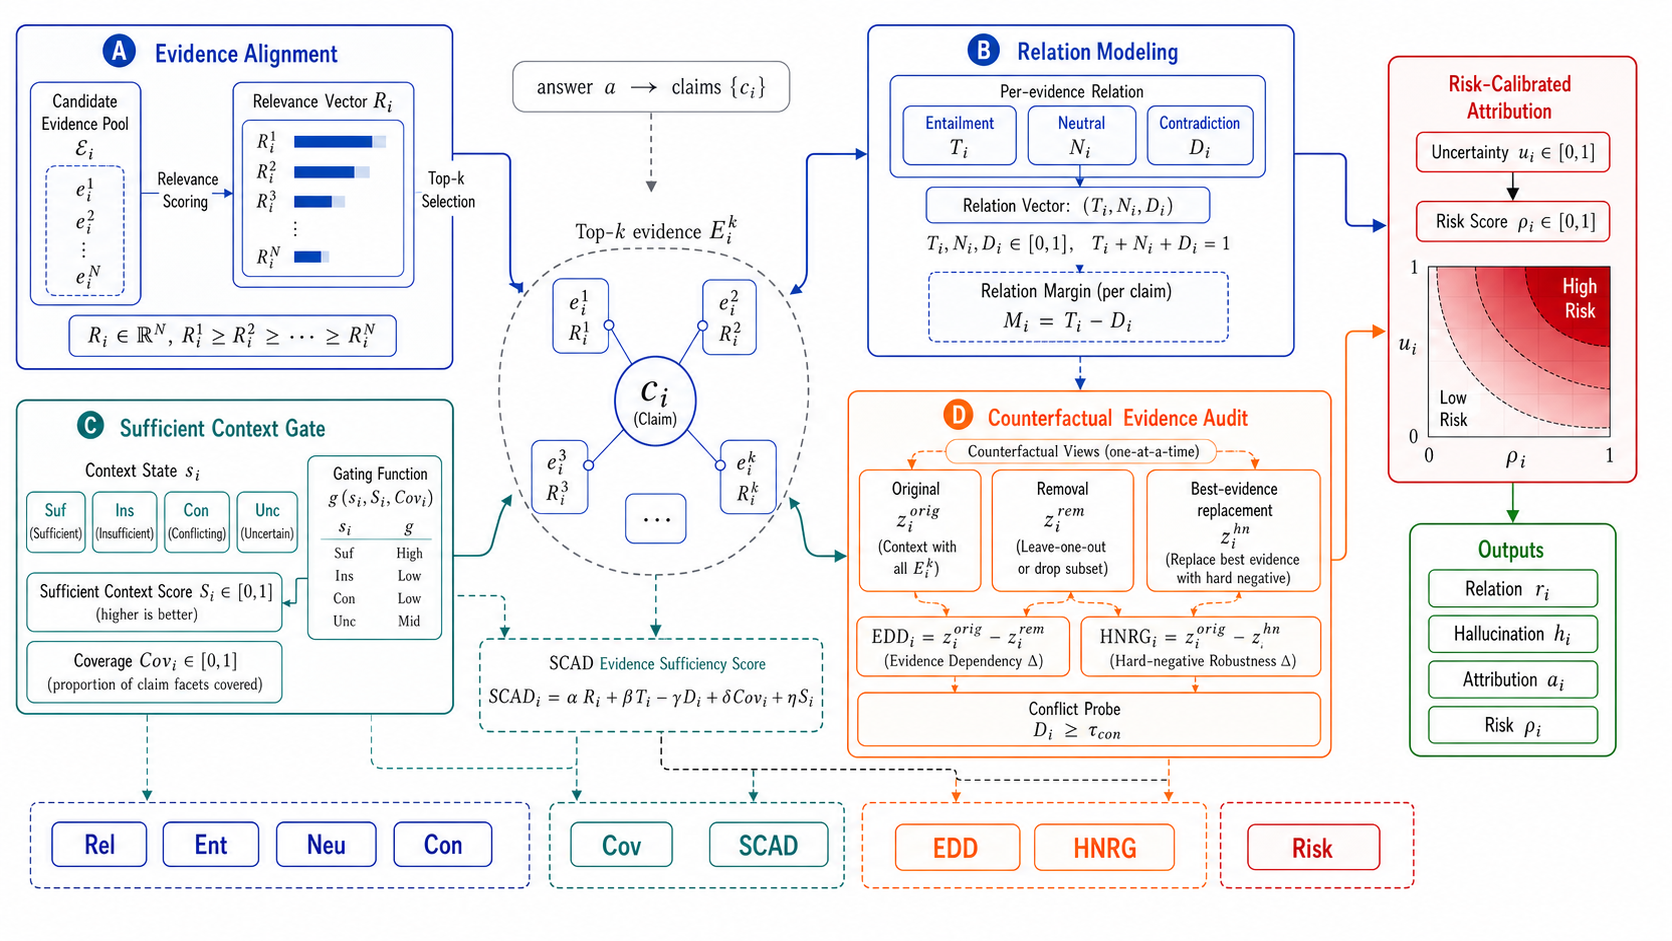
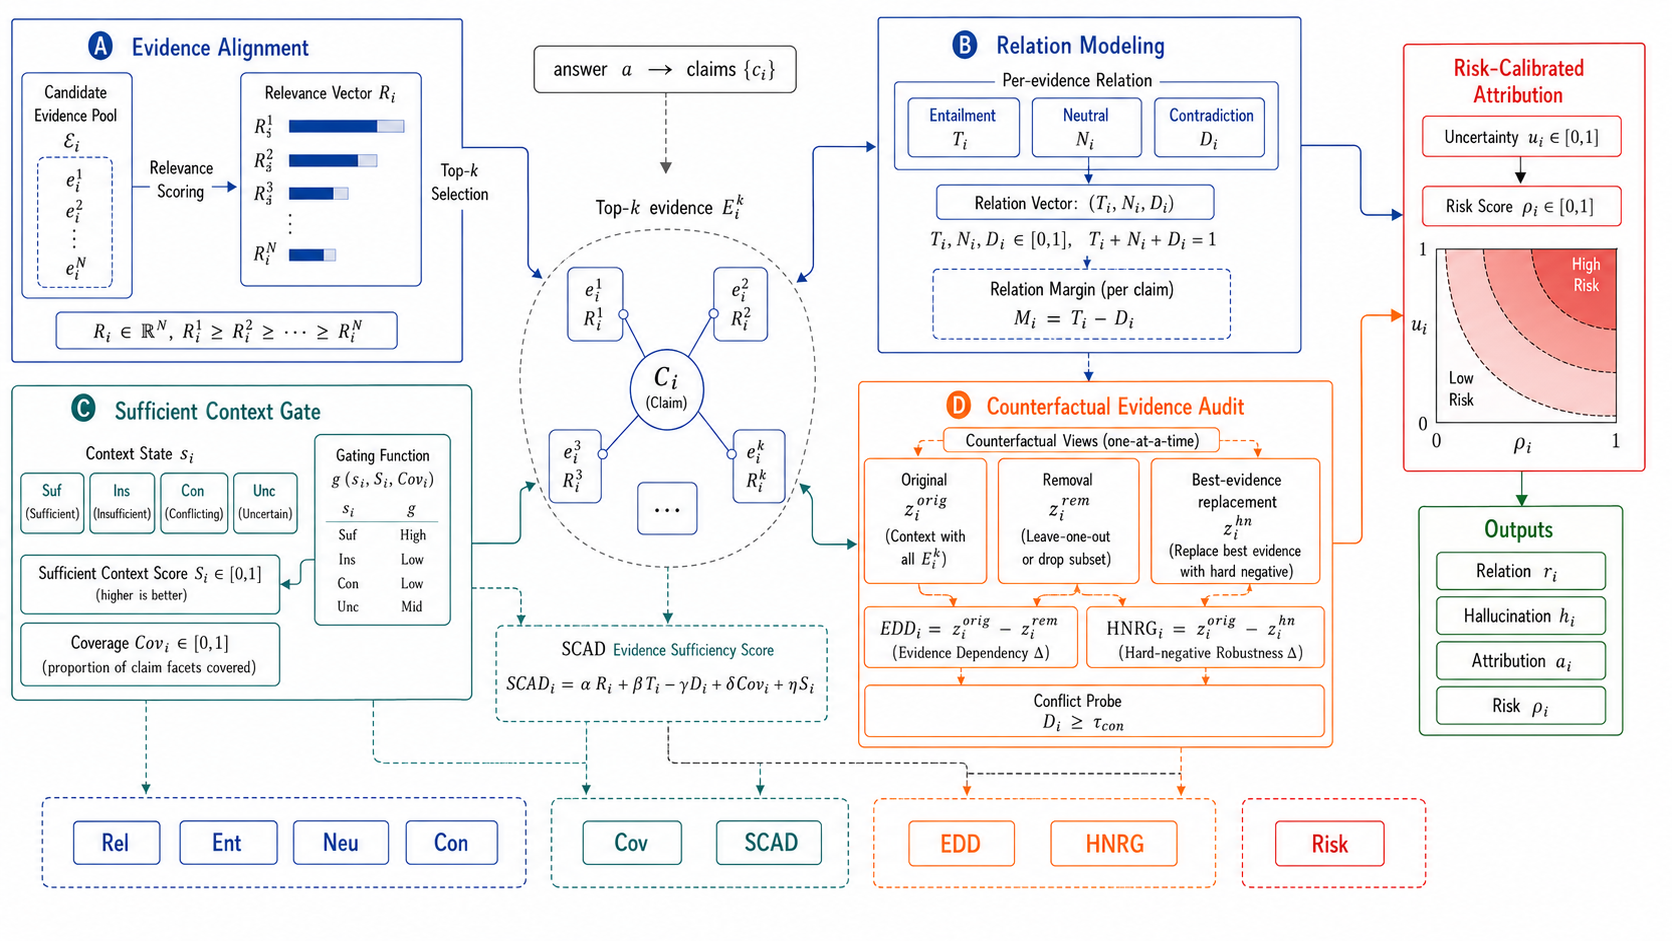
Replace README figures with manuscript overview

diff --git a/README.md b/README.md
@@ -6,7 +6,7 @@ SCAD-RAG is a local, reproducible research codebase for claim-level hallucinatio
 
 The project is designed for Windows 10/11, RTX 4060 8GB-class hardware, and CPU fallback. It does **not** call OpenAI, Anthropic, Gemini, Cohere, or any commercial LLM API.
 
-![SCAD-RAG overview](paper_assets/figures/scad_rag_overview.svg)
+![SCAD-RAG overview](paper_assets/figures/figure1_scad_rag_overview.png)
 
 ## Core Idea
 
@@ -46,8 +46,6 @@ RAGTruth is highly imbalanced, so Accuracy is reported as an auxiliary metric. H
 | ESS-rule | 0.1839 | 0.2581 | 0.5489 | 0.2629 | 0.1073 |
 | SCAD-RAG-Rule | 0.1856 | 0.2510 | 0.5415 | 0.2462 | 0.1142 |
 | SCAD-RAG-Calibrated | **0.2028** | **0.4453** | **0.6061** | 0.5512 | **0.4503** |
-
-![RAGTruth main results](paper_assets/figures/ragtruth_main_results.svg)
 
 ### Plug-in Fusion with External Detectors
 

diff --git a/paper_assets/README.md b/paper_assets/README.md
@@ -6,8 +6,7 @@ The files are intended for GitHub presentation and reproducibility notes. They d
 
 ## Figures
 
-- `figures/scad_rag_overview.svg`: compact framework overview for README rendering.
-- `figures/ragtruth_main_results.svg`: visual summary of the main RAGTruth metrics.
+- `figures/figure1_scad_rag_overview.png`: manuscript Figure 1 overview used for README rendering.
 - `figures/evidence_perturbation_probe.svg`: schematic of original, removal, and hard-negative evidence views.
 
 ## Result Tables
